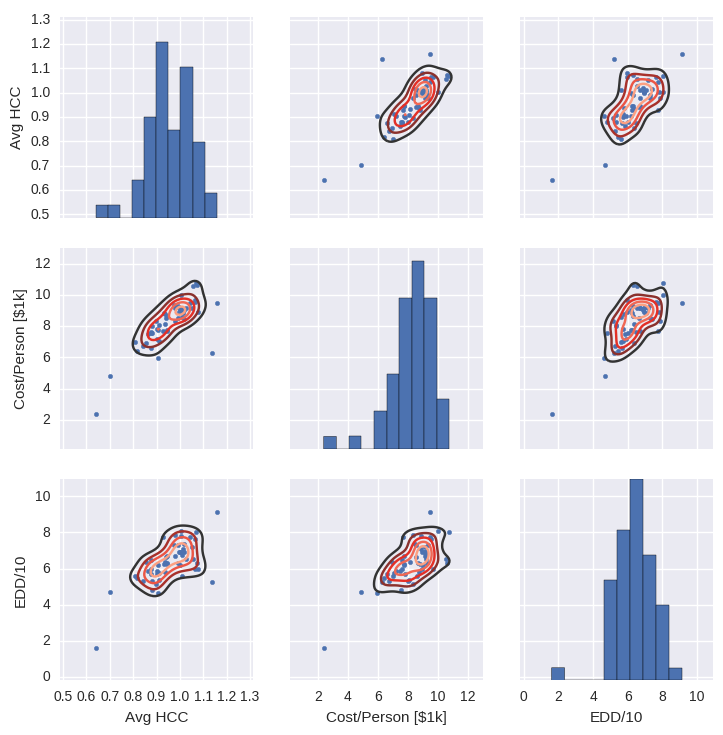
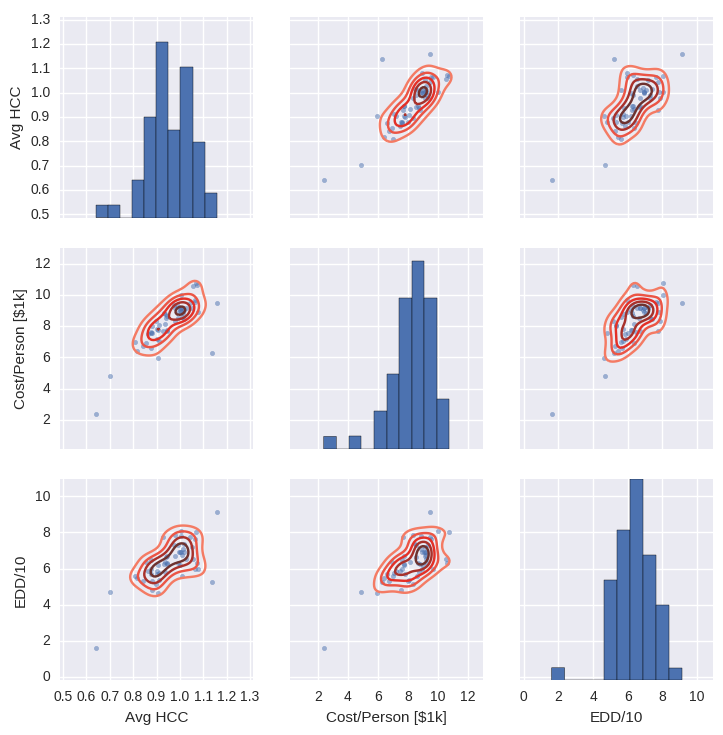
made fancy colormap for contour plot

diff --git a/project_1/explore.py b/project_1/explore.py
@@ -3,6 +3,7 @@ import argparse
 
 import pandas
 import matplotlib.pyplot as plt
+from matplotlib.colors import ListedColormap
 import seaborn as sns
 
 import us_states
@@ -24,10 +25,14 @@ def make_pair_plot(fname, level):
     plt_df['Cost/Person [$1k]'] = plt_df['Cost/Person [$1k]'] * 1.0e-3
     plt_df['EDD/10'] = plt_df['EDD/10'] * 1.0e-2
 
+    n_levels = 5
+    palette = list(reversed(sns.color_palette("Reds_d", n_levels)))
+    my_cmap = ListedColormap(palette)
+
     g = sns.PairGrid(plt_df, size=2.5)
     g.map_diag(plt.hist)
-    g.map_offdiag(sns.kdeplot, cmap="Reds_d", n_levels=5);
-    g.map_offdiag(plt.scatter, s=10, alpha=0.5);
+    g.map_offdiag(plt.scatter, s=10, alpha=0.5)
+    g.map_offdiag(sns.kdeplot, cmap=my_cmap, n_levels=n_levels);
     g.savefig('gvct_pairplot_{}.png'.format(level))
 
 if __name__ == '__main__':
